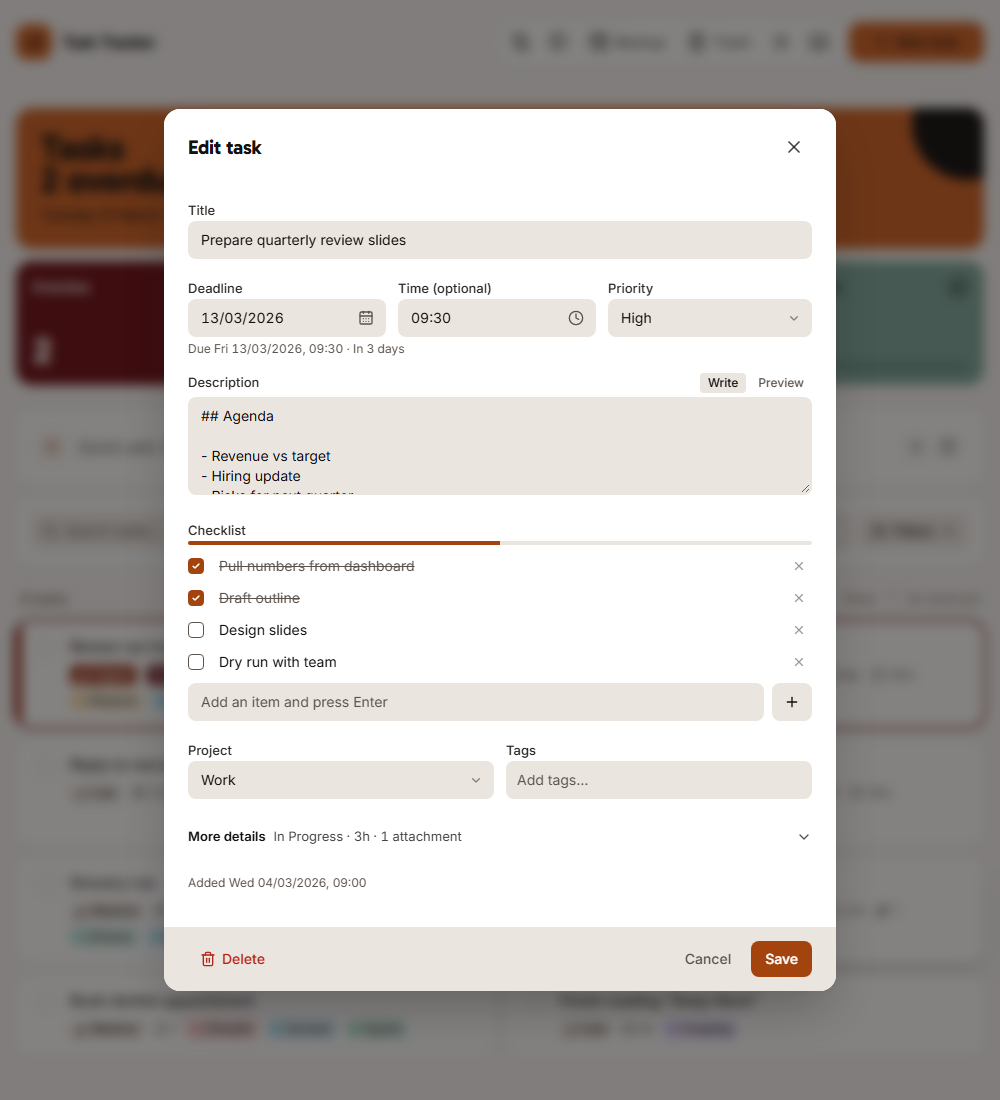
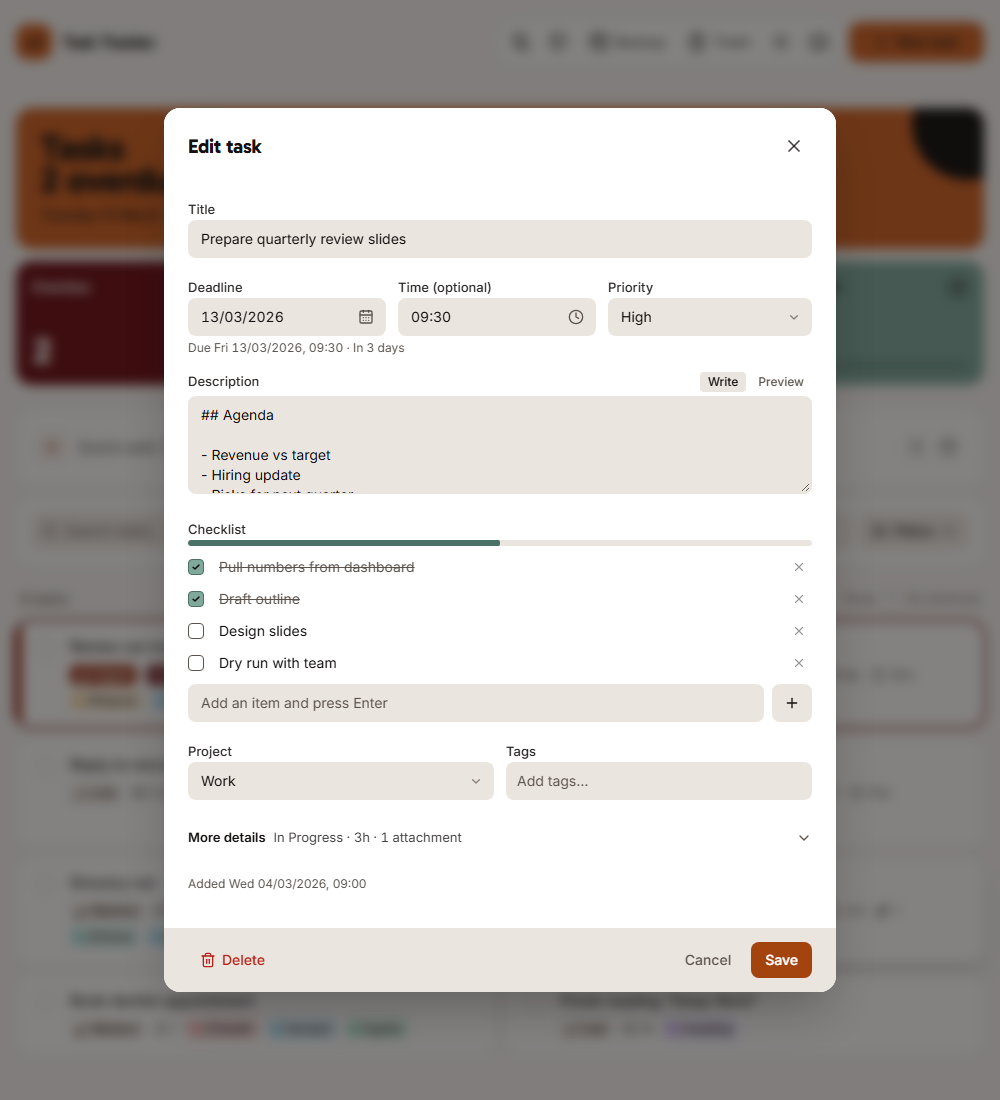
Final polish: More details into view, Delete key, Restore toast, sigils (#44)
Fourth critique P3 and minors. Opening More details scrolls its fields
into view; Delete moves the selected task to Trash with Undo; toasts wrap
pretty; Trash's Restore confirms with a toast; Projects & tags shows @/#
against each name; the checklist bar is a 6px sage meter. README
screenshots regenerated (also picking up steps 17-18). DESIGN.md, SPEC,
README shortcuts and the sidecar updated.

diff --git a/e2e/final-touches.spec.ts b/e2e/final-touches.spec.ts
@@ -1,0 +1,107 @@
+// The fourth critique's P3 and minor findings (#44).
+import type { Page } from '@playwright/test'
+import { expect, test } from './fixtures'
+
+test.use({ reducedMotion: 'reduce' })
+
+async function tokenColour(page: Page, name: string) {
+  return page.evaluate((v) => {
+    const probe = document.createElement('span')
+    probe.style.color = getComputedStyle(document.documentElement).getPropertyValue(v)
+    document.body.append(probe)
+    const out = getComputedStyle(probe).color
+    probe.remove()
+    return out
+  }, name)
+}
+
+test('opening More details at 1280×900 brings its fields into view', async ({ app, page }) => {
+  await page.setViewportSize({ width: 1280, height: 900 })
+  await app.loadSampleData()
+  await app.taskRow('Prepare quarterly review slides').locator('[data-card-edit]').click()
+  const dialog = page.getByRole('dialog')
+  await dialog.locator('[data-details-toggle]').click()
+  // Status, the first field behind it, and the start of Reminders are on screen without scrolling by hand.
+  await expect(dialog.getByLabel('Status')).toBeInViewport({ ratio: 1 })
+  await expect(dialog.getByText('Reminders', { exact: true })).toBeInViewport({ ratio: 1 })
+})
+
+test('Delete moves the selected task to Trash, with Undo', async ({ app, page }) => {
+  await app.loadSampleData()
+  await page.keyboard.press('j')
+  const selected = page.locator('li[aria-current]')
+  const title = (await selected.locator('[data-card-edit] > div').first().textContent())!.trim()
+  await page.keyboard.press('Delete')
+  const toast = page.getByRole('status').filter({ hasText: 'moved to Trash' })
+  await expect(toast).toContainText(title)
+  await expect(app.taskRow(title)).toHaveCount(0)
+  await toast.getByRole('button', { name: 'Undo' }).click()
+  await expect(app.taskRow(title)).toHaveCount(1)
+})
+
+test('Delete typed in the search field stays in the field', async ({ app, page }) => {
+  await app.loadSampleData()
+  await page.keyboard.press('j')
+  await page.locator('#search').fill('rent')
+  await page.locator('#search').press('Home')
+  await page.locator('#search').press('Delete')
+  await expect(page.locator('#search')).toHaveValue('ent')
+  await expect(page.getByRole('status').filter({ hasText: 'moved to Trash' })).toHaveCount(0)
+})
+
+test('the shortcuts sheet lists Delete', async ({ app, page }) => {
+  await app.loadSampleData()
+  await page.keyboard.press('?')
+  await expect(page.getByRole('dialog', { name: 'Keyboard shortcuts' })).toContainText('Move selected task to Trash')
+})
+
+test('a toast balances its lines, so no word is left alone at the end', async ({ app, page }) => {
+  await app.loadSampleData()
+  await page.keyboard.press('j')
+  await page.keyboard.press('Delete')
+  const message = page.getByRole('status').filter({ hasText: 'moved to Trash' }).locator('p').first()
+  expect(await message.evaluate((el) => getComputedStyle(el).textWrapStyle)).toBe('pretty')
+})
+
+test('restoring from Trash says so', async ({ app, page }) => {
+  await app.loadSampleData()
+  await app.taskRow('Pay rent').locator('[data-card-edit]').click()
+  await page.getByRole('dialog').getByRole('button', { name: 'Delete' }).click()
+  await page.getByRole('button', { name: /^Trash/ }).first().click()
+  await page.getByRole('button', { name: 'Restore "Pay rent"' }).click()
+  await expect(page.getByRole('status').filter({ hasText: '“Pay rent” restored' })).toBeVisible()
+})
+
+test('Projects & tags spells each name with its sigil', async ({ app, page }) => {
+  await app.loadSampleData()
+  await page.getByRole('button', { name: 'Projects & tags' }).click()
+  const dialog = page.getByRole('dialog', { name: 'Projects & tags' })
+  const home = dialog.locator('li').filter({ has: page.getByLabel('Name of Home') })
+  const errand = dialog.locator('li').filter({ has: page.getByLabel('Name of errand') })
+  await expect(home.locator('[data-sigil]')).toHaveText('@')
+  await expect(errand.locator('[data-sigil]')).toHaveText('#')
+  // The sigil sits inside the well, just before the name.
+  const [sigil, field] = await Promise.all([home.locator('[data-sigil]').boundingBox(), page.getByLabel('Name of Home').boundingBox()])
+  expect(sigil!.x).toBeGreaterThan(field!.x)
+  expect(sigil!.x).toBeLessThan(field!.x + 24)
+  // Against the name, as #finance and @Home are spelt elsewhere: no drawn gap between sigil and text.
+  for (const [row, name] of [[home, 'Home'], [errand, 'errand']] as const) {
+    const gap = await row.evaluate((li, n) => {
+      const s = li.querySelector('[data-sigil]')!.getBoundingClientRect()
+      const input = li.querySelector<HTMLInputElement>(`[aria-label="Name of ${n}"]`)!
+      return input.getBoundingClientRect().left + parseFloat(getComputedStyle(input).paddingLeft) - s.right
+    }, name)
+    expect(gap, name).toBeGreaterThanOrEqual(0)
+    expect(gap, name).toBeLessThanOrEqual(1.5)
+  }
+})
+
+test('the checklist bar fills in the done sage, on a track that reads as a meter', async ({ app, page }) => {
+  await app.loadSampleData()
+  await app.taskRow('Grocery run').locator('[data-card-edit]').click()
+  const dialog = page.getByRole('dialog')
+  const bar = dialog.locator('[data-checklist-bar]')
+  const fill = bar.locator('div')
+  expect(await fill.evaluate((el) => getComputedStyle(el).backgroundColor)).toBe(await tokenColour(page, '--done-edge'))
+  expect((await bar.boundingBox())!.height).toBeGreaterThanOrEqual(6)
+})

diff --git a/src/components/TaskForm.tsx b/src/components/TaskForm.tsx
@@ -1,5 +1,6 @@
 import { lazy, Suspense, useEffect, useId, useRef, useState, type FormEvent, type KeyboardEvent, type ReactNode, type SyntheticEvent } from 'react'
 import { ChevronDown, Trash2 } from 'lucide-react'
+import { useReducedMotionConfig } from 'motion/react'
 import { useModalDialog } from '../hooks/useModalDialog'
 import { DialogTitleBar } from './Dialog'
 import { taskRepo } from '../db/tasks'
@@ -103,6 +104,17 @@ export function TaskForm({ task, projects, tags, onClose, onTrash }: Props) {
   const [confirming, setConfirming] = useState(false)
   /** Showing the rarely used fields (status, effort, repeat, reminders, attachments). Closed on every open: its summary says what's set. */
   const [detailsOpen, setDetailsOpen] = useState(false)
+  const detailsRef = useRef<HTMLDivElement>(null)
+  /** Set by the More details button, so only opening it by hand scrolls (not a Save error opening it). */
+  const detailsJustOpened = useRef(false)
+  const reduceMotion = useReducedMotionConfig()
+  // Opened near the bottom of a tall editor, its fields would appear below the footer. Bring them in,
+  // only as far as needed (`nearest`), with the scroll margins keeping clear of the title bar and footer.
+  useEffect(() => {
+    if (!detailsOpen || !detailsJustOpened.current) return
+    detailsJustOpened.current = false
+    detailsRef.current?.scrollIntoView({ block: 'nearest', behavior: reduceMotion ? 'instant' : 'smooth' })
+  }, [detailsOpen, reduceMotion])
 
   const formRef = useRef<HTMLFormElement>(null)
   /** Set by a Save that found errors, so focus moves to the first one once they render. */
@@ -577,12 +589,15 @@ export function TaskForm({ task, projects, tags, onClose, onTrash }: Props) {
 
           {/* The fields few tasks need wait behind one row. Closed, it says what's set behind it, so
               nothing is out of sight; with nothing set, it names what's there. */}
-          <div>
+          <div ref={detailsRef} className="scroll-mt-22 scroll-mb-20">
             <button
               type="button"
               aria-expanded={detailsOpen}
               aria-controls={detailsId}
-              onClick={() => setDetailsOpen((o) => !o)}
+              onClick={() => {
+                detailsJustOpened.current = !detailsOpen
+                setDetailsOpen(!detailsOpen)
+              }}
               data-details-toggle
               className="-mx-3 flex min-h-11 w-[calc(100%+1.5rem)] items-center gap-x-2 rounded-lg px-3 py-2 text-left text-[13px] transition-colors duration-200 hover:bg-subtle"
             >

diff --git a/src/components/LabelManager.tsx b/src/components/LabelManager.tsx
@@ -84,17 +84,24 @@ function LabelRow({ label, repo, kind, ask, onRemoved }: RowProps) {
           onChange={(e) => save({ color: e.target.value })}
           className="swatch"
         />
-        {/* A field well like every other text field, so it reads as editable; it saves on blur or Enter. */}
-        <input
-          aria-label={`Name of ${label.name}`}
-          aria-invalid={error ? true : undefined}
-          aria-describedby={[count !== undefined && countId, error && errorId].filter(Boolean).join(' ') || undefined}
-          value={name}
-          onChange={(e) => setName(e.target.value)}
-          onBlur={() => name !== label.name && save({ name })}
-          onKeyDown={(e) => e.key === 'Enter' && e.currentTarget.blur()}
-          className={cn(field, 'min-w-0 flex-1 py-1.5', error && INVALID_FIELD)}
-        />
+        {/* A field well like every other text field, so it reads as editable; it saves on blur or Enter.
+            The muted sigil sits inside the well before the name, spelt as everywhere else (#finance, @Home). */}
+        <div className="relative min-w-0 flex-1">
+          <span data-sigil aria-hidden className="pointer-events-none absolute top-1/2 left-3 -translate-y-1/2 text-sm text-muted">
+            {kind === 'project' ? '@' : '#'}
+          </span>
+          <input
+            aria-label={`Name of ${label.name}`}
+            aria-invalid={error ? true : undefined}
+            aria-describedby={[count !== undefined && countId, error && errorId].filter(Boolean).join(' ') || undefined}
+            value={name}
+            onChange={(e) => setName(e.target.value)}
+            onBlur={() => name !== label.name && save({ name })}
+            onKeyDown={(e) => e.key === 'Enter' && e.currentTarget.blur()}
+            // Padding per sigil (@ is wider than #), so the name starts right against it.
+            className={cn(field, 'py-1.5', kind === 'project' ? 'pl-[1.625rem]' : 'pl-[1.3125rem]', error && INVALID_FIELD)}
+          />
+        </div>
         {count !== undefined && (
           <span id={countId} className="min-w-14 shrink-0 text-right text-xs text-muted tabular-nums">
             {plural(count, 'task')}

diff --git a/src/App.tsx b/src/App.tsx
@@ -358,6 +358,17 @@ export default function App() {
     })
   }
 
+  /** Trash's Restore: puts the task back and says so, since it leaves the screen you're on. */
+  async function restoreFromTrash(task: Task) {
+    try {
+      await taskRepo.restore(task.id)
+    } catch (err) {
+      showSaveError(`“${toastTitle(task.title)}” couldn’t be restored.`, err)
+      return
+    }
+    showToast({ message: `“${toastTitle(task.title)}” restored`, detail: 'It’s back in your tasks.' })
+  }
+
   // Tasks whose tick is being saved. A second toggle meanwhile (a double click, X X) is ignored:
   // it would act on the task as it was before the first one landed.
   const savingDone = useRef(new Set<string>())
@@ -490,6 +501,8 @@ export default function App() {
           k: () => moveSelection(-1),
           e: () => selected && openTask(selected),
           x: (e) => !e.repeat && selected && toggleDone(selected),
+          // Undo is in the toast (and Z), so no question first; a held key doesn't trash the next card too.
+          Delete: (e) => !e.repeat && selected && void trashTask(selected),
           z: undoLatest,
           '?': () => setModal('shortcuts'),
           Escape: () => setSelectedId(null),
@@ -515,7 +528,7 @@ export default function App() {
 
       <main>
       {view === 'trash' ? (
-        <TrashView />
+        <TrashView onRestore={restoreFromTrash} />
       ) : (
         // Urgency first, then capture, then refine, then the list. Groups sit 24px apart; things
         // inside a group, 12px (the panel gutter).

diff --git a/src/components/TrashView.tsx b/src/components/TrashView.tsx
@@ -4,6 +4,7 @@ import { RotateCcw, Trash2 } from 'lucide-react'
 import { taskRepo, TRASH_RETENTION_DAYS } from '../db/tasks'
 import { useConfirm } from '../hooks/useConfirm'
 import { plural } from '../lib/utils'
+import type { Task } from '../types'
 import { btn, card, panel } from '../ui'
 import { EmptyState } from './EmptyState'
 import { AnimatedItem, AnimatedList } from './motion/AnimatedList'
@@ -11,7 +12,7 @@ import { AnimatedItem, AnimatedList } from './motion/AnimatedList'
 const DAY = 86_400_000
 
 /** Trashed tasks as cards in the same grid as the task list, each with Restore and Delete forever. */
-export function TrashView() {
+export function TrashView({ onRestore }: { onRestore: (task: Task) => Promise<void> | void }) {
   const trashed = useLiveQuery(() => taskRepo.listTrash(), [])
   const now = Date.now()
   const [confirmDialog, ask] = useConfirm()
@@ -119,7 +120,7 @@ export function TrashView() {
               <button
                 onClick={() => {
                   handOverFocus(i, 'restore')
-                  void taskRepo.restore(t.id)
+                  void onRestore(t)
                 }}
                 aria-label={`Restore "${t.title}"`}
                 data-restore

diff --git a/src/components/ChecklistEditor.tsx b/src/components/ChecklistEditor.tsx
@@ -27,10 +27,12 @@ export function ChecklistEditor({ value, onChange, draft, onDraftChange }: Props
     <div className="space-y-1.5">
       {value.length > 0 && (
         <>
-          <div className="h-1 overflow-hidden rounded-full bg-subtle" aria-hidden>
+          {/* A meter, not a rule: 6px, rounded, filling in the done sage (the checked box's rim), so it
+              reads as progress rather than a divider in brand orange. */}
+          <div data-checklist-bar className="h-1.5 overflow-hidden rounded-full bg-subtle" aria-hidden>
             {/* Scaled, not resized, so the fill animates on transform only. */}
             <div
-              className="h-full origin-left bg-primary transition-transform duration-200"
+              className="h-full origin-left rounded-full bg-done-edge transition-transform duration-200"
               style={{ transform: `scaleX(${done / value.length})` }}
             />
           </div>

diff --git a/src/components/Toast.tsx b/src/components/Toast.tsx
@@ -69,7 +69,8 @@ export function Toast({ toast, onDismiss, onAction, shortcut, paused = false }: 
       {/* Callers shorten task titles (toastTitle in App.tsx), so nothing here is clipped; a title
           can still be one unbroken string, so the text wraps anywhere. */}
       <div className="min-w-0 flex-1 [overflow-wrap:anywhere]">
-        <p className="font-medium">{toast.message}</p>
+        {/* Pretty wrapping, so a short last word ("Trash") never sits alone on its line. */}
+        <p className="font-medium text-pretty">{toast.message}</p>
         {toast.detail && <p className="mt-0.5">{toast.detail}</p>}
       </div>
       {/* The panel's colours swapped, like Back up now on the backup reminder: one main action per panel, no second brand button. */}

diff --git a/src/hooks/useShortcuts.ts b/src/hooks/useShortcuts.ts
@@ -8,6 +8,7 @@ export const SHORTCUTS: { keys: string; label: string }[] = [
   { keys: 'J / K', label: 'Next / previous task' },
   { keys: 'E', label: 'Edit selected task' },
   { keys: 'X', label: 'Toggle selected task done' },
+  { keys: 'Delete', label: 'Move selected task to Trash' },
   { keys: 'Z', label: 'Undo, while its message shows' },
   { keys: 'Esc', label: 'Leave a field / clear selection' },
   { keys: '?', label: 'Show shortcuts' },

diff --git a/src/index.css b/src/index.css
@@ -122,6 +122,7 @@
   --color-primary: var(--primary);
   --color-primary-hover: var(--primary-hover);
   --color-primary-soft: var(--primary-soft);
+  --color-done-edge: var(--done-edge);
   --color-on-primary: var(--on-primary);
   --color-accent: var(--accent);
   --color-on-accent: var(--on-accent);

diff --git a/DESIGN.md b/DESIGN.md
@@ -386,14 +386,14 @@ Four panels, most urgent first: Overdue (maroon, or taupe at zero), Due today (m
 
 ### Dialogs and Toasts
 - **Dialog:** native `<dialog>` on Lifted White with the panel radius and the modal shadow. It springs up 24px from 94% scale over 480ms, over a blurred backdrop. The sticky title bar is solid Lifted White (a see-through blur smeared the labels scrolling under it), with a Headline title and a header-icon close button. Fields inside a dialog carry a scroll margin, so one that takes focus stops clear of the sticky title bar and footer, label included.
-- **Task editor fields:** most tasks need only a few fields, so those lead in the order they're decided. Title, then Deadline, Time and Priority on one row (2 : 1 from `sm`, stacked on phones), Description, Checklist, and Project beside Tags. Status, Effort, Repeat, Reminders and Attachments wait behind **More details**: a full-width row (44px tall, 13px, semibold name, chevron at the right) that starts closed every time the editor opens. Closed, it says what's set behind it in plain words ("In Progress · 3h · Repeats weekly · 2 reminders · 1 attachment"), or names what's there in muted text when nothing is set, so closing it never hides a value. Its fields stay in the DOM while it's closed: text typed there still saves, and a Save that finds a problem there opens it so focus can reach the field. The fields fade up (`animate-fade-up`) when it opens.
+- **Task editor fields:** most tasks need only a few fields, so those lead in the order they're decided. Title, then Deadline, Time and Priority on one row (2 : 1 from `sm`, stacked on phones), Description, Checklist, and Project beside Tags. Status, Effort, Repeat, Reminders and Attachments wait behind **More details**: a full-width row (44px tall, 13px, semibold name, chevron at the right) that starts closed every time the editor opens. Closed, it says what's set behind it in plain words ("In Progress · 3h · Repeats weekly · 2 reminders · 1 attachment"), or names what's there in muted text when nothing is set, so closing it never hides a value. Its fields stay in the DOM while it's closed: text typed there still saves, and a Save that finds a problem there opens it so focus can reach the field. The fields fade up (`animate-fade-up`) when it opens, and opening it by hand scrolls the editor just enough to bring them in (`nearest`, clear of the title bar and footer; instant under reduced motion), so they never open below the footer. The checklist's progress bar is a 6px rounded meter filling in `--done-edge` (the ticked box's sage) on Well Stone, not a brand-orange hairline.
 - **Task editor footer:** sticky, solid Well Stone with no rule above it: the tone step sets it apart, and nothing scrolling behind shows through around Save (it used to be see-through). Cancel's hover steps one tone further, to the seam colour. The Markdown **Preview** sits in a plain Well Stone well like the field it replaces, with no border; Markdown headings inside it are Gabarito bold, per the Heavy Headline Rule.
-- **Projects & tags:** each label is a row: a round 28px colour swatch (`.swatch`, the label's dot made big, with a faint inner ring so light colours still show; it takes the soft orange halo on hover), its name in a field well (so it reads as editable; it saves on blur or Enter), the number of tasks it's on ("4 tasks", the same count the delete question gives, and the name field's description), and Delete. Rows sit 8px apart under a bold section heading.
+- **Projects & tags:** each label is a row: a round 28px colour swatch (`.swatch`, the label's dot made big, with a faint inner ring so light colours still show; it takes the soft orange halo on hover), its name in a field well with its muted sigil inside, right against the name (`@Home`, `#finance`, as everywhere else; so it reads as editable; it saves on blur or Enter), the number of tasks it's on ("4 tasks", the same count the delete question gives, and the name field's description), and Delete. Rows sit 8px apart under a bold section heading.
 - **Keyboard shortcuts:** a two-column list with the app's own `kbd` keys; a pair like J / K is two keys with a muted slash between. Under it, 32px down, a bold "Quick add syntax" heading and the same `QuickAddSyntax` list as the quick-add popover.
 - **Unsaved changes (task editor):** with anything changed (fields, checklist, reminders, repeat, staged attachments, or text typed but not yet added), Esc, × and Cancel don't close the editor. Its sticky footer becomes a Noon Mustard bar asking "Discard your changes?" ("Discard this new task?" when creating). **Keep editing** is the inverted main action and takes focus; **Discard** and **Save** ("Add task" when creating) are quiet. Save saves and closes as the footer's would; a problem with a field focuses it, which puts the bar away. Esc on the bar means Keep editing, and going back to a field puts the bar away. With nothing changed, every close is instant.
 - **Confirmation** (`ConfirmDialog`, through `useConfirm`): every "are you sure?" in the app, never the browser's own confirm box. A small Lifted White dialog (`max-w-md`) with the dialog spring, an `alertdialog` with a Headline question ("Empty Trash?", "Delete this project?"), a body that says what will happen with the counts involved, and a button row: Cancel (secondary) and the go-ahead, named for the action ("Delete forever", "Replace everything"). Destructive ones use Danger solid and give Cancel the first focus; the rest use Primary and focus it. Esc cancels. Counts that compare two states sit in a Well Stone list (`CountList`): "Now 3 tasks", "Backup 1 task". A confirmation opened from another dialog stacks on top of it and closes alone. When the thing asked about disappears (a deleted Trash card or label), focus moves to its neighbour's same button.
 - **Backup & restore:** a muted line on where the tasks live, then the data's state in a Well Stone list (`CountList`): **Last backup** (`DD/MM/YYYY`, 24-hour, or Never) and **Storage** (Protected, Not protected or Not reported, with a muted line saying what that means). While storage isn't protected, an underlined Burnt Orange Text button ("Ask the browser to protect it", then "Ask again") asks for it; a refusal says so ("Not granted", then "Still not granted"), and once it's granted, focus moves to the answer. Download (Primary) and Restore (secondary) follow, with their result in a status line underneath. Restore's question shows both counts; when the file has fewer tasks it adds a danger line with a triangle icon ("This backup has 9 fewer tasks than you have now."), then says the data will be replaced and can be undone while the window is open, with a secondary **Download current data** button that saves a backup without closing the question and confirms in a muted status line. After a restore, a small **Undo restore** button sits beside the result; it puts everything back from the snapshot taken just before, and focus moves to Restore from file…. Sample data sits apart at the bottom, after extra space (32px, no rule), in a **Try the app** section with its own bold heading and a ghost button, so it never reads as a peer of Restore.
-- **Toast:** an ink panel (`panel.ink`: near-black in light, off-white in dark) with the pop shadow that slides in 32px from the edge. The message is 14px medium and wraps anywhere; task titles in it are cut to 60 characters, so the words around them ("moved to Trash") always show. An optional second line in regular weight carries detail ("Next due tomorrow 07:00", or why a save failed), in full ink. Undo is the ink panel inverted (`attentionAction` with `INVERTED_PANEL.ink`), so the screen keeps one brand-orange button; Dismiss is the panel's ink at 75%, tinted with its own ink on hover. Toasts close after 6 seconds, but the countdown waits while the pointer is over one, while focus is inside it, and while a dialog is open over it (the backdrop covers it and the page behind is inert); each wait ends with a fresh 6 seconds. A failure toast stays until dismissed. Completion toasts share one slot, so a quick J/X run shows only the latest "Done", and `Z` runs the newest Undo (a held key doesn't repeat it).
+- **Toast:** an ink panel (`panel.ink`: near-black in light, off-white in dark) with the pop shadow that slides in 32px from the edge. The message is 14px medium, wraps anywhere and wraps pretty (`text-pretty`, so "Trash" never ends alone on a line); task titles in it are cut to 60 characters, so the words around them ("moved to Trash") always show. An optional second line in regular weight carries detail ("Next due tomorrow 07:00", or why a save failed), in full ink. Undo is the ink panel inverted (`attentionAction` with `INVERTED_PANEL.ink`), so the screen keeps one brand-orange button; Dismiss is the panel's ink at 75%, tinted with its own ink on hover. Toasts close after 6 seconds, but the countdown waits while the pointer is over one, while focus is inside it, and while a dialog is open over it (the backdrop covers it and the page behind is inert); each wait ends with a fresh 6 seconds. A failure toast stays until dismissed. Completion toasts share one slot, so a quick J/X run shows only the latest "Done", and `Z` runs the newest Undo (a held key doesn't repeat it).
 - **Toasts and assistive tech:** a failure toast uses `role="alert"`. The others are `role="status"` but silent themselves: their words ("Done: Pay rent. Press Z to undo.") go through a visually hidden live region that's on the page from the start, which screen readers announce more reliably. While it holds anything, the stack is a region named "Notifications". When a toast that has focus goes (Undo, Dismiss), focus returns to where it was before the toast, else the page heading.
 
 ### Empty State

diff --git a/docs/SPEC.md b/docs/SPEC.md
@@ -36,9 +36,9 @@ Multi-device sync for one person is coming. It isn't built and there is no backe
 - **Recurrence**: completing a recurring task creates the next instance. It copies the description, tags, project, priority, effort, the checklist (all items reset to unchecked) and reminders (shifted to the new deadline). Attachments are not copied.
 - **Reminders**: browser notifications while the app is open or installed. On launch, a banner lists reminders that were missed.
 - **Complete**: a "Done" toast with Undo, which puts the task back to the status it had. For a recurring task it also says when the new copy is due, and Undo follows the reopen rule below.
-- **Delete**: an Undo toast, then Trash, which purges after 30 days. Deleting a project moves its tasks to "No project", after a confirmation that shows the count.
+- **Delete**: an Undo toast, then Trash, which purges after 30 days. Restoring from Trash says so in a toast (“X” restored, “It’s back in your tasks.”), since the task leaves the screen you are on. Deleting a project moves its tasks to "No project", after a confirmation that shows the count.
 - **Backup**: full JSON export/import (including attachments), plus a "last backup N days ago" nudge.
-- **Shortcuts**: `N` quick-add, `/` search, `J`/`K` navigate, `E` edit, `X` toggle done, `Z` undo (while the toast shows), `?` help. After `X`, the selection passes to the card that takes the completed card's place, so `J`/`K` carry on from there. `J`/`K` move keyboard focus along with the selection, and Tabbing to a card selects it. When a focused card leaves the list, focus moves to the card that takes its place.
+- **Shortcuts**: `N` quick-add, `/` search, `J`/`K` navigate, `E` edit, `X` toggle done, `Delete` move to Trash (with Undo, no question), `Z` undo (while the toast shows), `?` help. After `X`, the selection passes to the card that takes the completed card's place, so `J`/`K` carry on from there. `J`/`K` move keyboard focus along with the selection, and Tabbing to a card selects it. When a focused card leaves the list, focus moves to the card that takes its place.
 - **Dates**: `DD/MM/YYYY`, 24-hour clock, relative labels ("Tomorrow", "In 3 days").
 
 ## Quality & release

diff --git a/README.md b/README.md
@@ -102,6 +102,7 @@ Beyond the user flows, a few suites guard the design: `contrast.spec.ts` runs ax
 | `J` / `K` | Next / previous task |
 | `E` | Edit selected task |
 | `X` | Toggle selected task done |
+| `Delete` | Move selected task to Trash |
 | `Z` | Undo, while its message shows |
 | `Esc` | Leave a field / clear selection |
 | `?` | Show shortcuts |
